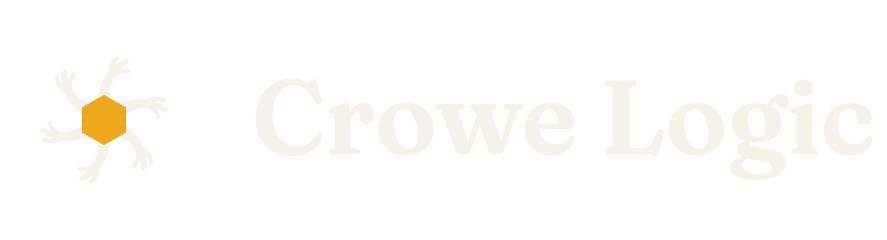
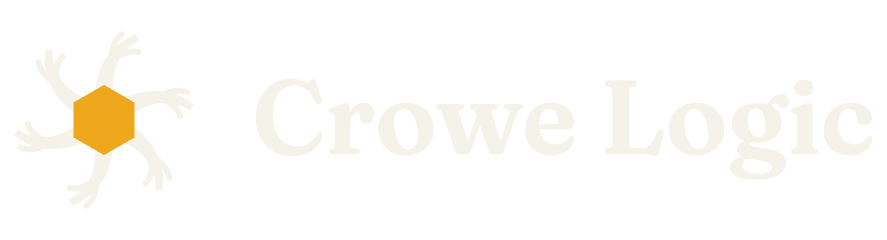
fix: keep the shell, routing, and small-size promises the UI already made
Three things the app said were true and weren't.

The shell. crowe:pty:start spawned a full login shell at every autonomy
tier, while the menu label the user picked said "no shell" at two of the
four. gitWritesBlocked() had gated every git handler since it was
written; the PTY simply never asked. Only Execute grants a shell now,
and the terminal reports why it didn't open instead of blaming the
build. The env is left alone deliberately: it is the operator's own
login environment, the same one Terminal.app hands them, and the
gateway token is not in it - that lives in the auth store.

Every terminal was a Crowe Logic terminal. mountTerminal auto-entered
crowe-logic on first mount, including system terminals, so there was no
ordinary shell left to run anything else from. The agent panel is the
one place the CLI is entered for you. Its dock also sent each objective
twice - once into the PTY, once to the gateway - so every task ran
twice, billed twice, and touched the working tree twice. It runs on the
gateway alone. Interrupt no longer sends Ctrl-C to a shell that was
never running the job.

Routing by vocabulary. The Cultivation surface claimed questions there
reach crowelm-grower; routeTurn only ever saw the text, so "what should
I do about the smell?" - a grower question with no keyword in it - went
to the default operator. routeTurn takes an explicit pin, keyword
classification stays the fallback, and an unpinned turn is unchanged.
[…]

Changed region(s): [[0.0609, 0.35, 0.1522, 0.6417]]

diff --git a/renderer/renderer.js b/renderer/renderer.js
@@ -280,7 +280,10 @@ function addRouteNode(body, ev) {
   el.innerHTML = `<span class="rc-dot"></span><span class="rc-label">routed to ${esc(label)}</span>`;
   body.appendChild(el); scrollBottom();
 }
-async function send(text) {
+// opts.role pins the expert for this turn. Surfaces built around one specialty
+// pass it so the routing matches what the surface says it does, instead of
+// depending on the operator happening to use the right vocabulary.
+async function send(text, opts = {}) {
   if (!text.trim() || running) return;
   // Re-validate live: a token that expired since launch must not eat the turn.
   if (!(await refreshAuth())) { showSignInPrompt(); return; }
@@ -338,7 +341,7 @@ async function send(text) {
     else if (ev.type === "stopped") { finishSaid(); hideThinking(body); addStopped(body); }
     else if (ev.type === "error") { finishSaid(); hideThinking(body); addError(body, ev.text); }
   });
-  try { await window.crowe.agent.run(messages); } finally { off(); if (mark) mark.rest(); $("hud-model").textContent = "CroweLM"; spentCost = runCost; sessionCost += runCost; runCost = 0; $("hud-cost").textContent = fmtCost(sessionCost); setRunning(false); }
+  try { await window.crowe.agent.run(messages, "main", opts.role ? { role: opts.role } : {}); } finally { off(); if (mark) mark.rest(); $("hud-model").textContent = "CroweLM"; spentCost = runCost; sessionCost += runCost; runCost = 0; $("hud-cost").textContent = fmtCost(sessionCost); setRunning(false); }
   finishSaid(); hideThinking(body);
   if (runText) { messages.push({ role: "assistant", content: runText }); attachCopyButton(body.closest(".msg"), runText); }
   else if (!body.querySelector(".said, .err, .stopped")) body.innerHTML = '<p class="said hint">Done. See the workspace.</p>';
@@ -410,9 +413,15 @@ async function mountTerminal(p, body, systemTerminal=false) {
   const t=new Terminal({fontFamily:"JetBrains Mono, ui-monospace, Menlo, monospace",fontSize:12.5,cursorBlink:true,scrollback:5000,theme:termTheme()});
   const f=new FitAddon.FitAddon(); t.loadAddon(f); t.open(host); try{f.fit()}catch{}
   const state=tools.querySelector(".terminal-state");
-  const start=async()=>{state.textContent="starting";const r=await window.crowe.pty.start({id:p.id,cols:t.cols,rows:t.rows});state.textContent=r&&r.ok!==false?"running":"unavailable";if(!r||r.ok===false)t.write("\r\n  PTY unavailable in this build.\r\n")};
+  /* Say why the shell did not open. It always claimed "unavailable in this
+     build", which is wrong and unactionable when the real answer is that the
+     autonomy tier withholds the shell and the operator can just raise it. */
+  const start=async()=>{state.textContent="starting";const r=await window.crowe.pty.start({id:p.id,cols:t.cols,rows:t.rows});const ok=r&&r.ok!==false;state.textContent=ok?"running":"no shell";if(!ok)t.write(`\r\n  ${r?.error||"PTY unavailable."}\r\n`)};
   terminalPanels.set(p.id,{term:t,fit:f,host,state,start}); await start();
-  if (!p.bootstrapped) { p.bootstrapped=true; window.crowe.pty.input(p.id,"crowe-logic\r"); }
+  /* Plain terminals stay plain shells. They used to auto-enter crowe-logic,
+     which made every terminal a Crowe Logic CLI whether the operator wanted
+     one or not - and left no ordinary shell to run anything else from. The
+     agent panel is the one place the CLI is entered for you. */
   t.onData((data)=>window.crowe.pty.input(p.id,data));
   tools.querySelector(".term-restart").onclick=async()=>{await window.crowe.pty.close(p.id);t.reset();await start()};
   tools.querySelector(".term-clear").onclick=()=>t.clear();
@@ -440,12 +449,22 @@ async function mountWorkspaceAgent(p, body, seed={}) {
   const CHIP={booting:"BOOTING",running:"ACTIVE",verified:"DONE",waiting:"PAUSED",failed:"OFFLINE",idle:"READY"};
   const setState=(chipState,markState,label)=>{chip.dataset.state=chipState;chip.textContent=CHIP[chipState]||chipState.toUpperCase();mark.setState(markState);if(label)status.textContent=label};
   const addEvent=(kind,text)=>{const row=document.createElement("div");row.className=`agent-event agent-event-${kind}`;row.innerHTML=`<span>${esc(kind)}</span><code>${esc(text)}</code>`;events.appendChild(row);events.scrollTop=events.scrollHeight};
-  const start=async()=>{const r=await window.crowe.pty.start({id:p.id,cols:t.cols,rows:t.rows});if(r?.ok!==false){window.crowe.pty.input(p.id,"crowe-logic\r");setState("idle","idle","Crowe Logic CLI ready");addEvent("runtime","crowe-logic entered automatically")}else{setState("failed","failed","Runtime unavailable")}};
+  /* This panel is the one place the Crowe Logic CLI is entered for you. When
+     the tier withholds the shell the dock still works - the objective runs on
+     the gateway - so this is a degraded panel, not a dead one. */
+  const start=async()=>{const r=await window.crowe.pty.start({id:p.id,cols:t.cols,rows:t.rows});if(r?.ok!==false){window.crowe.pty.input(p.id,"crowe-logic\r");setState("idle","idle","Crowe Logic CLI ready");addEvent("runtime","crowe-logic entered automatically")}else{setState("idle","idle","Gateway only - no shell at this tier");addEvent("runtime",r?.error||"shell unavailable");t.write(`\r\n  ${r?.error||"Shell unavailable."}\r\n`)}};
   terminalPanels.set(p.id,{term:t,fit:f,host:slot,state:status,start});await start();
   t.onData(data=>window.crowe.pty.input(p.id,data));
   const form=body.querySelector(".agent-command-dock"),box=form.querySelector("textarea"),run=form.querySelector('button[type="submit"]');let running=false;
-  form.onsubmit=async e=>{e.preventDefault();const task=box.value.trim();if(!task||running)return;running=true;setState("running","reasoning","Reasoning and executing");addEvent("input",task);window.crowe.pty.input(p.id,task+"\r");box.value="";run.disabled=true;let answer="";const off=window.crowe.agent.onEvent(ev=>{if(ev.agentId!==p.id)return;if(ev.type==="tool_call"){status.textContent=`Running ${ev.name||"tool"}`;pingMark();addEvent("tool",ev.name||"tool")}else if(ev.type==="assistant"||ev.type==="assistant_delta")answer+=ev.text||"";else if(ev.type==="error")addEvent("error",ev.text||"failed")});try{const r=await window.crowe.agent.run([{role:"user",content:task}],p.id,{licensed:p.licensed,workspaceId:p.workspaceId});answer=answer||r?.text||"Completed";addEvent("verified",answer.slice(0,500));setState("verified","idle","Verified")}catch(err){addEvent("error",err.message||String(err));setState("failed","failed","Needs attention")}finally{off();running=false;run.disabled=false}};
-  body.querySelector(".agent-interrupt").onclick=()=>{window.crowe.agent.stop(p.id);window.crowe.pty.input(p.id,"\x03");setState("waiting","idle","Interrupted");addEvent("status","operator interrupted runtime")};
+  /* The dock runs the objective on the gateway agent, and only there. It used
+     to also type the objective into the PTY, so every task ran twice - two
+     bills, two sets of side effects on the same working tree. The terminal
+     below stays interactive for anything the operator wants to run by hand. */
+  form.onsubmit=async e=>{e.preventDefault();const task=box.value.trim();if(!task||running)return;running=true;setState("running","reasoning","Reasoning and executing");addEvent("input",task);box.value="";run.disabled=true;let answer="";const off=window.crowe.agent.onEvent(ev=>{if(ev.agentId!==p.id)return;if(ev.type==="tool_call"){status.textContent=`Running ${ev.name||"tool"}`;pingMark();addEvent("tool",ev.name||"tool")}else if(ev.type==="assistant"||ev.type==="assistant_delta")answer+=ev.text||"";else if(ev.type==="error")addEvent("error",ev.text||"failed")});try{const r=await window.crowe.agent.run([{role:"user",content:task}],p.id,{licensed:p.licensed,workspaceId:p.workspaceId});answer=answer||r?.text||"Completed";addEvent("verified",answer.slice(0,500));setState("verified","idle","Verified")}catch(err){addEvent("error",err.message||String(err));setState("failed","failed","Needs attention")}finally{off();running=false;run.disabled=false}};
+  /* Interrupt stops the agent run, not the terminal. It used to also send
+     Ctrl-C to the PTY, killing whatever the operator had running by hand for
+     a run that was never happening there. Ctrl-C in the terminal still works. */
+  body.querySelector(".agent-interrupt").onclick=()=>{window.crowe.agent.stop(p.id);setState("waiting","idle","Interrupted");addEvent("status","operator interrupted the agent run")};
   new ResizeObserver(()=>{try{f.fit();window.crowe.pty.resize({id:p.id,cols:t.cols,rows:t.rows})}catch{}}).observe(slot);
 }
 
@@ -1053,7 +1072,7 @@ $("studio-music").addEventListener("click", () => {
   input.value = "Compose with Talon: ";
   input.focus(); input.setSelectionRange(input.value.length, input.value.length);
 });
-document.querySelectorAll(".cult-chip").forEach((c) => c.addEventListener("click", () => { setSpace("chat"); send(c.textContent); }));
+document.querySelectorAll(".cult-chip").forEach((c) => c.addEventListener("click", () => { setSpace("chat"); send(c.textContent, { role: "cultivation" }); }));
 
 // ── Official plugins (Settings picker; manifest lives in main) ──
 let pluginGlyphs = {};

diff --git a/scripts/gen-mark.js b/scripts/gen-mark.js
@@ -106,6 +106,8 @@ function along(o, deg, d0, d1, curl, t) {
 // ease it off: a tip that tapers to 3.4 of a 120 canvas is under half a pixel
 // at 16px and simply disappears. `fork` is dropped for the same reason — below
 // about 20px the branches merge into a blur and cost legibility for nothing.
+// Every variant meant for small sizes passes fork: false. That sentence was
+// here before the code did it, and mark-simple.svg spent a release forked.
 function arms(taper, fork) {
   const w = (a) => a.w0 + (a.w1 - a.w0) * taper;
   const blue = [];
@@ -131,6 +133,35 @@ function arms(taper, fork) {
   return { blue, gold: [] };
 }
 
+// The arms reach about 81 of the 120 canvas, so a third of every rendered pixel
+// was margin the mark had already paid for: at a 16px tray slot only ~11px was
+// artwork. The box below is the ink, not the canvas.
+//
+// It is one box shared by every variant, not a per-variant fit. Easing the taper
+// widens the tips, so the small variants actually reach *further* than the
+// primary — fitting each one to itself would make the mark change size the
+// moment you swapped mark.svg for mark-simple.svg in the same slot. Taking the
+// union and squaring it about the centre keeps the family interchangeable.
+const INK_PAD = 1; // keeps tip antialiasing off the viewBox edge
+function inkBox() {
+  let far = 0;
+  // Extent is driven by taper (tip width) and fork; the corners of that space
+  // bound everything between them.
+  for (const taper of [0, 1]) {
+    for (const fork of [false, true]) {
+      for (const a of arms(taper, fork).blue) {
+        for (const pair of a.pts.trim().split(/\s+/)) {
+          const [x, y] = pair.split(",").map(Number);
+          far = Math.max(far, Math.abs(x - CX), Math.abs(y - CY));
+        }
+      }
+    }
+  }
+  const half = far + INK_PAD, side = half * 2;
+  return `${(CX - half).toFixed(2)} ${(CY - half).toFixed(2)} ${side.toFixed(2)} ${side.toFixed(2)}`;
+}
+const INK_VIEWBOX = inkBox();
+
 // Draw order: blue hyphae first, then the gold core on top — the spore sits
 // over the roots of the arms so they read as emerging from behind it.
 function markSvg(opts) {
@@ -142,7 +173,7 @@ function markSvg(opts) {
     ...A.gold.map((a) => `<polygon points="${a.pts}" fill="${pal.gold}"/>`),
     `<polygon points="${hex(HEART)}" fill="${pal.gold}"/>`,
   ].filter(Boolean).join("\n  ");
-  return `<svg xmlns="http://www.w3.org/2000/svg" viewBox="0 0 ${VIEW} ${VIEW}">\n  ${rows}\n</svg>\n`;
+  return `<svg xmlns="http://www.w3.org/2000/svg" viewBox="${INK_VIEWBOX}">\n  ${rows}\n</svg>\n`;
 }
 
 // ── Emit ────────────────────────────────────────────────────────────────────
@@ -153,12 +184,18 @@ const A = (p) => path.join(__dirname, "..", "assets", p);
 const wrote = [];
 const emit = (name, body) => { fs.writeFileSync(A(name), body); wrote.push(name); };
 emit("mark.svg", markSvg());
-// Simple: taper eased off so the tips still carry mass in the low twenties.
-emit("mark-simple.svg", markSvg({ taper: 0.45 }));
-// Same taper for dark surfaces. Without this the small-size variant is the one
-// hole in the matrix: ink hyphae on a dark ground disappear at the exact sizes
-// this file exists to survive.
-emit("mark-simple-dark.svg", markSvg({ taper: 0.45, pal: { blue: "#f5f2ea", gold: C.gold } }));
+// Simple: the small-size variant, and it has to actually be simple. It kept the
+// fork while claiming not to, which is why it read no better than the primary —
+// rendered at true 16px the branches broke into detached specks and the gold
+// core was the only thing left. Same geometry the tray has always used, because
+// the tray was the only variant that survived that test, but in full colour: the
+// core is what carries the brand once the arms go thin.
+emit("mark-simple.svg", markSvg({ taper: 0.2, fork: false }));
+// Dark surfaces need more mass than light ones at the same size — ink on a dark
+// ground loses a half-pixel of stroke to antialiasing that light never gives
+// back. Parallel-sided arms are the widest this geometry offers, so the dark
+// small variant takes them.
+emit("mark-simple-dark.svg", markSvg({ taper: 0, fork: false, pal: { blue: "#f5f2ea", gold: C.gold } }));
 // Strict one-colour versions — the Nike test. If the silhouette doesn't carry
 // the mark without the gold, the mark is wrong; these are also what goes on
 // anything printed, engraved, or embroidered.

diff --git a/harness.js b/harness.js
@@ -359,22 +359,27 @@ function catalogModelForRole(catalog, role) {
   const m = catalog.find((x) => x && x.featured && x.available !== false && x.gateway_tool_calling !== false && x.role === role);
   return m ? m.model : null;
 }
-function routeTurn(ctx, messages) {
+// `pin` names the expert outright, for callers that already know which one they
+// want - a surface dedicated to a specialty knows its own role better than a
+// regex reading the sentence. Keyword classification stays the fallback, so an
+// unpinned turn behaves exactly as before.
+function routeTurn(ctx, messages, pin = "") {
   const cfg = ctx.loadConfig();
   const dflt = cfg.model || "crowelm";
   const last = [...(messages || [])].reverse().find((m) => m && m.role === "user");
-  const role = classifyRole(String((last && last.content) || ""));
+  const role = pin && pin !== "default" ? pin : classifyRole(String((last && last.content) || ""));
   if (role === "default") return { expert: "operator", model: dflt, reason: "default operator", fallback: dflt };
   const dynamic = catalogModelForRole(ctx.getCatalog ? ctx.getCatalog() : [], role);
   const model = dynamic || BRIDGE_ROLE_MODEL[role] || dflt;
   const src = dynamic ? "catalog" : (BRIDGE_ROLE_MODEL[role] ? "bridge" : "default");
-  return { expert: role, model, reason: `${role} · ${src}`, fallback: dflt };
+  return { expert: role, model, reason: `${role} · ${src}${pin ? " · pinned" : ""}`, fallback: dflt };
 }
 
 // ─── Agent loop (block: route -> retrieve/reason/synthesize) ──────────────────
 // Each turn is a block. route() selects the expert; the tool loop below is the
 // retrieve/reason/synthesize body; the operator thread is the residual backbone.
-// deps = { gatewayChat(msgs, tools, signal), send(ev), isAborted(), setController(c) }
+// deps = { gatewayChat(msgs, tools, signal), send(ev), isAborted(), setController(c),
+//          role } - role optionally pins the expert instead of classifying text.
 async function runAgent(ctx, messages, deps) {
   const sys = await buildSystemPrompt(ctx);
   let msgs = [{ role: "system", content: sys }, ...messages];
@@ -382,7 +387,7 @@ async function runAgent(ctx, messages, deps) {
   let totIn = 0, totOut = 0, totMs = 0, capped = false;
 
   // ── ROUTE ── pick the expert deployment for this block, fallback-first.
-  const route = routeTurn(ctx, messages);
+  const route = routeTurn(ctx, messages, deps.role || "");
   let activeModel = route.model;
   let fellBack = false;
   deps.send({ type: "route", expert: route.expert, model: route.model, reason: route.reason });

diff --git a/main.js b/main.js
@@ -625,7 +625,7 @@ ipcMain.handle("crowe:agent:stop-all", () => {
   }
   return { ok: true, stopped: agentRuns.size };
 });
-ipcMain.handle("crowe:agent:run", async (evt, { messages, id = "main", licensed = false, workspaceId = "" }) => {
+ipcMain.handle("crowe:agent:run", async (evt, { messages, id = "main", licensed = false, workspaceId = "", role = "" }) => {
   if (licensed) {
     const entitlement = await requireAgentEntitlement(workspaceId);
     if (!entitlement.ok) return { done: false, error: entitlement.error, text: entitlement.error };
@@ -639,6 +639,7 @@ ipcMain.handle("crowe:agent:run", async (evt, { messages, id = "main", licensed 
       send: (ev) => evt.sender.send("crowe:agent:event", { ...ev, agentId: id }),
       isAborted: () => run.aborted,
       setController: (c) => { run.controller = c; },
+      role: String(role || ""),
     });
     if (id === "main") {
       try { persistSession([...messages, { role: "assistant", content: result.text || "" }]); } catch {}
@@ -652,8 +653,17 @@ ipcMain.handle("crowe:chat", async (_e, { messages }) => gatewayChat(messages, n
 
 // ─── PTY terminal ────────────────────────────────────────────────────────────
 const ptyProcs = new Map();
+/* The shell is the one capability the autonomy menu names out loud: two of its
+   four tiers say "no shell" in the label the user picked. Nothing enforced it -
+   every tier opened a full login shell - so the promise was decoration, and the
+   safe-by-default tier was the least safe thing in the app. Only Execute grants
+   a shell. The env stays process.env: that is the operator's own login
+   environment, the same one Terminal.app would give them, and the gateway token
+   is not in it - it lives in the auth store. */
+function shellBlocked() { return (loadConfig().autonomy || "edit") !== "execute"; }
 ipcMain.handle("crowe:pty:start", (evt, { id = "main", cols, rows } = {}) => {
-  if (!pty) return { ok: false, error: "pty unavailable" };
+  if (!pty) return { ok: false, error: "pty unavailable in this build" };
+  if (shellBlocked()) return { ok: false, error: `shell is off at "${loadConfig().autonomy || "edit"}" autonomy - switch to Execute to open a terminal` };
   if (ptyProcs.has(id)) return { ok: true, id };
   const proc = pty.spawn(process.env.SHELL || "/bin/zsh", [], { name: "xterm-color", cols: cols || 80, rows: rows || 24, cwd: CWD, env: process.env });
   ptyProcs.set(id, proc);

diff --git a/renderer/index.html b/renderer/index.html
@@ -146,7 +146,7 @@
 
     <section id="surface-cultivation" class="surface hidden">
       <div class="surface-inner">
-        <header class="sh"><h1>Cultivation</h1><p class="sh-sub">The grower's space. Questions here route to crowelm-grower, the mycology expert.</p></header>
+        <header class="sh"><h1>Cultivation</h1><p class="sh-sub">The grower's space. These go straight to crowelm-grower, the mycology expert.</p></header>
         <div class="chips surface-chips">
           <button class="chip cult-chip">Plan an oyster substrate recipe for a 10-bag run, with sterilization steps</button>
           <button class="chip cult-chip">Diagnose green mold on day-6 rye grain spawn and tell me what to salvage</button>
